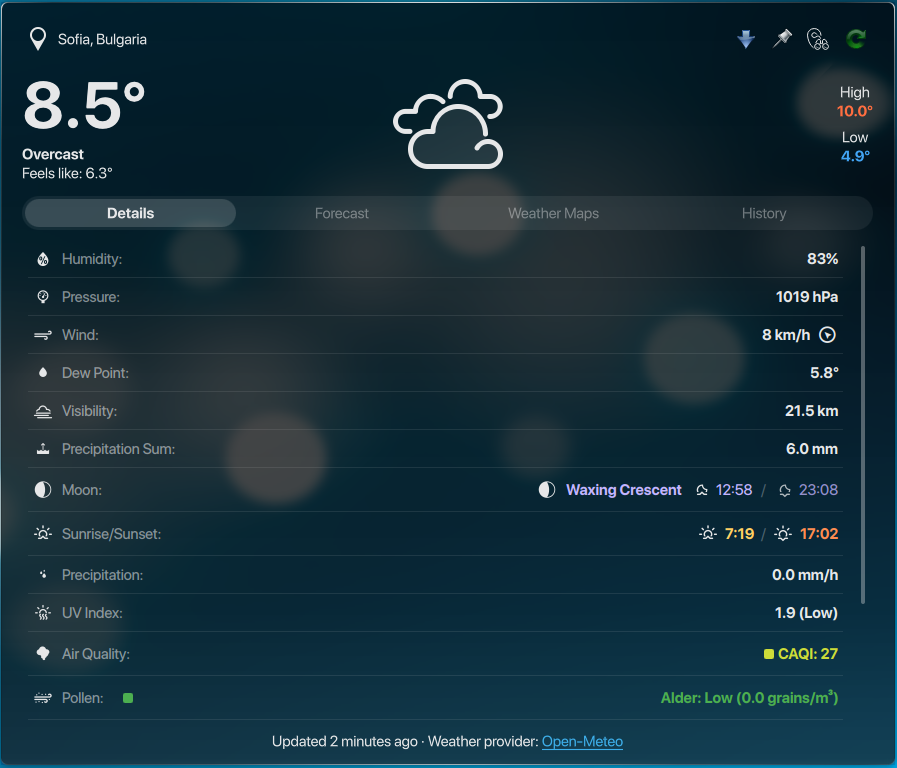
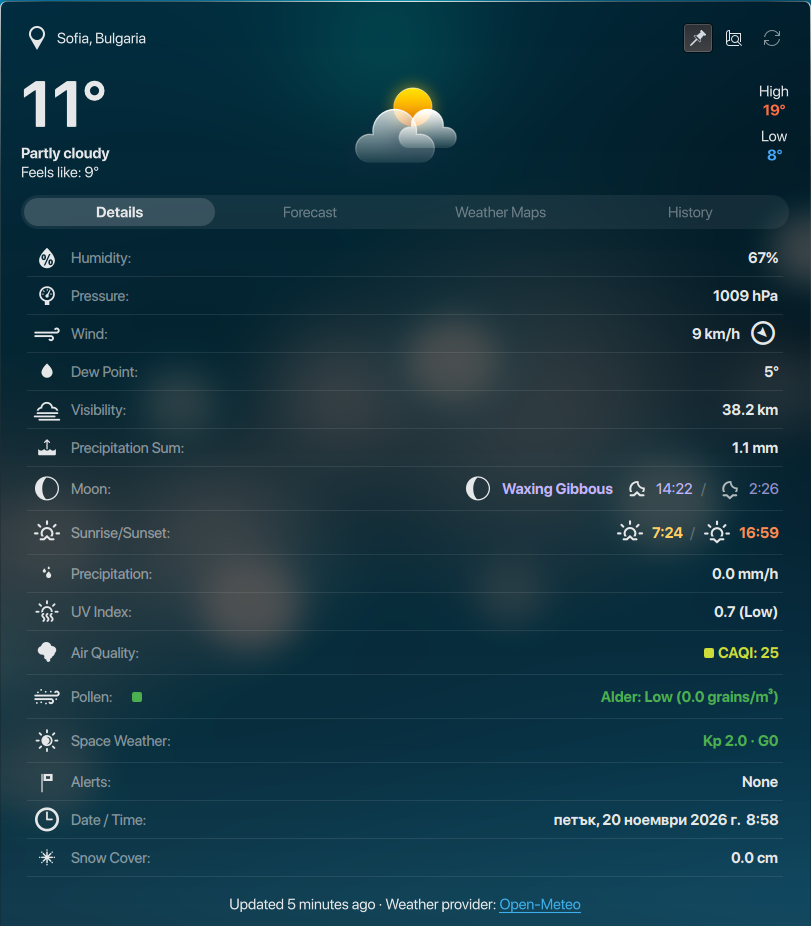
doc: update README.md screenshots

diff --git a/README.md b/README.md
@@ -141,24 +141,58 @@ python3 scripts/build_librewxr_map.py --librewxr /path/to/LibreWXR
 ### Widget layouts
 | Advanced mode (cards) | Advanced mode (list) |
 |:---:|:---:|
-| <img src="screenshots/widget/advanced/advanced mode (cards).png" width="400" alt="Advanced mode (cards)"> | <img src="screenshots/widget/advanced/advanced mode (list).png" width="400" alt="Advanced mode (list)"> |
-| Modern cards. | A clean list view. |
+| <video src="https://github.com/user-attachments/assets/ebad95fc-fb09-4e83-9db7-9eaf9e04df71" width="400" controls loop muted playsinline></video> | <img src="screenshots/widget/advanced/advanced mode (list).png" width="400" alt="Advanced mode (list)"> |
+| Animated cards (collapsed/expanded) | A clean list view |
 
-| Simple mode (default) | Super simple |
-|:---:|:---:|
-| <img src="screenshots/widget/simple/simple mode (default).png" width="400" alt="Simple mode"> | <img src="screenshots/widget/simple/super simple.png" width="400" alt="Super simple mode"> |
-| Focused view for weather without the tabs. | The most minimal view. |
-
-### Tabs
-| Forecast (strip) | Forecast (cards) | Weather maps |
+| Simple mode (default) | Simple mode (graphs) | Super simple |
 |:---:|:---:|:---:|
-| <img src="screenshots/widget/tabs/forecast-strip.png" width="300" alt="Forecast tab (strip)"> | <img src="screenshots/widget/tabs/forecast.png" width="300" alt="Forecast tab (cards)"> | <img src="screenshots/widget/tabs/radar.png" width="300" alt="Weather maps tab"> |
+| <img src="screenshots/widget/simple/simple mode (default).png" width="400" alt="Simple mode (default)"> | <img src="screenshots/widget/simple/simple mode (graphs).png" width="400" alt="Simple mode (graphs)"> | <img src="screenshots/widget/simple/super simple.png" width="400" alt="Super simple mode"> |
+| Focused view for weather without the tabs | Forecast data shown with interactive graphs | The most minimal view |
+
+### Forecast
+| Standard daily / hourly cards | Standard daily / hourly graphs | Standard daily / hourly strip |
+|:---:|:---:|:---:|
+| <img src="screenshots/widget/forecast/daily (standard)-hourly (cards).png" width="400" alt="Standard daily and hourly cards"> | <img src="screenshots/widget/forecast/daily (standard)-hourly (graphs).png" width="400" alt="Standard daily and hourly graphs"> | <img src="screenshots/widget/forecast/daily (standard)-hourly (strip).png" width="400" alt="Standard daily and hourly strip"> |
+
+| Graph daily / hourly cards | Graph daily / hourly strip |
+|:---:|:---:|
+| <img src="screenshots/widget/forecast/daily (graphs)-hourly (cards).png" width="400" alt="Graph daily and hourly cards"> | <img src="screenshots/widget/forecast/daily (graphs)-hourly (strip).png" width="400" alt="Graph daily and hourly strip"> |
+
+| Expanded graphs | Compact graphs |
+|:---:|:---:|
+| <video src="https://github.com/user-attachments/assets/ea31e407-8ad3-4e4d-93f9-be4018ffee4d" width="400" controls loop muted playsinline></video> | <video src="https://github.com/user-attachments/assets/e914e796-e6f0-461d-8e86-c1ba1cab921b" width="400" controls loop muted playsinline></video> |
+| Expanded graphs for daily and hourly forecasts | Compact daily and forecast graphs |
+
+### Weather Map
+| Overview |
+|:---:|
+| <video src="https://github.com/user-attachments/assets/78316480-1346-43d8-83fb-fe6132170b40" width="800" controls loop muted playsinline></video> |
+
+| Plain map | 3D globe with day and night | Radar and satellite |
+|:---:|:---:|:---:|
+| <img src="screenshots/widget/map/plain map.png" width="400" alt="Plain map"> | <img src="screenshots/widget/map/3d globe with day and night.png" width="400" alt="3D globe with day and night"> | <img src="screenshots/widget/map/radar and satellite.png" width="400" alt="Radar and satellite map"> |
+
+| Isobars, rain and clouds | Temperature layer | Humidity |
+|:---:|:---:|:---:|
+| <img src="screenshots/widget/map/isobar-rain-clouds.png" width="400" alt="Isobars, rain and clouds map"> | <img src="screenshots/widget/map/temperature layer.png" width="400" alt="Temperature layer map"> | <img src="screenshots/widget/map/humidity.png" width="400" alt="Humidity map"> |
+
+| Dew point | Sea level pressure | Air quality |
+|:---:|:---:|:---:|
+| <img src="screenshots/widget/map/dew point.png" width="400" alt="Dew point map"> | <img src="screenshots/widget/map/sea level pressure.png" width="400" alt="Sea level pressure map"> | <img src="screenshots/widget/map/air quality.png" width="400" alt="Air quality map"> |
+
+## Weather History
+| Overview |
+|:---:|
+| <video src="https://github.com/user-attachments/assets/103a2914-c315-4914-b3f4-e4b07c6dc299" width="800" controls loop muted playsinline></video> |
+
+| Previous day | This year | Custom range |
+|:---:|:---:|:---:|
+| <img src="screenshots/widget/history/previous day.png" width="400" alt="Previous day history"> | <img src="screenshots/widget/history/this year.png" width="400" alt="This year history"> | <img src="screenshots/widget/history/custom range.png" width="400" alt="Custom range history"> |
 
 ### Notifications
-| Regular notifications | Alert notifications |
+| Regular and alert notifications | Tomorrow forecast |
 |:---:|:---:|
-| <img src="screenshots/notifications/regular-notifications.png" width="300" alt="Regular notifications"> | <img src="screenshots/notifications/alerts-notifications.png" width="300" alt="Alert notifications with native language support"> |
-| Forecast, UV index and Kp index. | Alerts with native language support. |
+| <img src="screenshots/notifications/regular + alert notifications.png" width="400" alt="Regular and alert notifications"> | <img src="screenshots/notifications/tomorrow forecast notification.png" width="400" alt="Tomorrow forecast notification"> |
 
 # ✨ Detailed Features
 
@@ -219,12 +253,13 @@ For providers that require an API key, you can enter it in the widget's settings
 
 Thank you to everyone who has contributed code to this project ❤
 
-- **[Mizu Ikki](https://github.com/mizuikki)** - QWeather provider fixes and perfomance improvements (refresh handling, forecast display, precipitation fallback)
-- **[rcspam](https://github.com/rcspam)** - [PR-151](https://github.com/pnedyalkov91/advanced-weather-widget/pull/151), [PR-146](https://github.com/pnedyalkov91/advanced-weather-widget/pull/146), [PR-157](https://github.com/pnedyalkov91/advanced-weather-widget/pull/157), [PR-179](https://github.com/pnedyalkov91/advanced-weather-widget/pull/179), [PR-180](https://github.com/pnedyalkov91/advanced-weather-widget/pull/180), [PR-198](https://github.com/pnedyalkov91/advanced-weather-widget/pull/198)
-- **[ydimitrof](https://github.com/ydimitrof)** - [PR-168](https://github.com/pnedyalkov91/advanced-weather-widget/pull/168)
-- **[Katze-942](https://github.com/Katze-942)** - [PR-185](https://github.com/pnedyalkov91/advanced-weather-widget/pull/185)
-- **[KassLavender](https://github.com/KassLavender)** - [PR-174](https://github.com/pnedyalkov91/advanced-weather-widget/pull/174)
-- **[JoshuaKimsey](https://github.com/JoshuaKimsey)** - [PR-192](https://github.com/pnedyalkov91/advanced-weather-widget/pull/192)
+- **[rcspam](https://github.com/rcspam)**
+- **[Mizu Ikki](https://github.com/mizuikki)**
+- **[ydimitrof](https://github.com/ydimitrof)**
+- **[Katze-942](https://github.com/Katze-942)**
+- **[KassLavender](https://github.com/KassLavender)**
+- **[JoshuaKimsey](https://github.com/JoshuaKimsey)**
+- **[Zhuocheng-Lang](https://github.com/Zhuocheng-Lang)**
 
 ## 🌐 Translation
 
